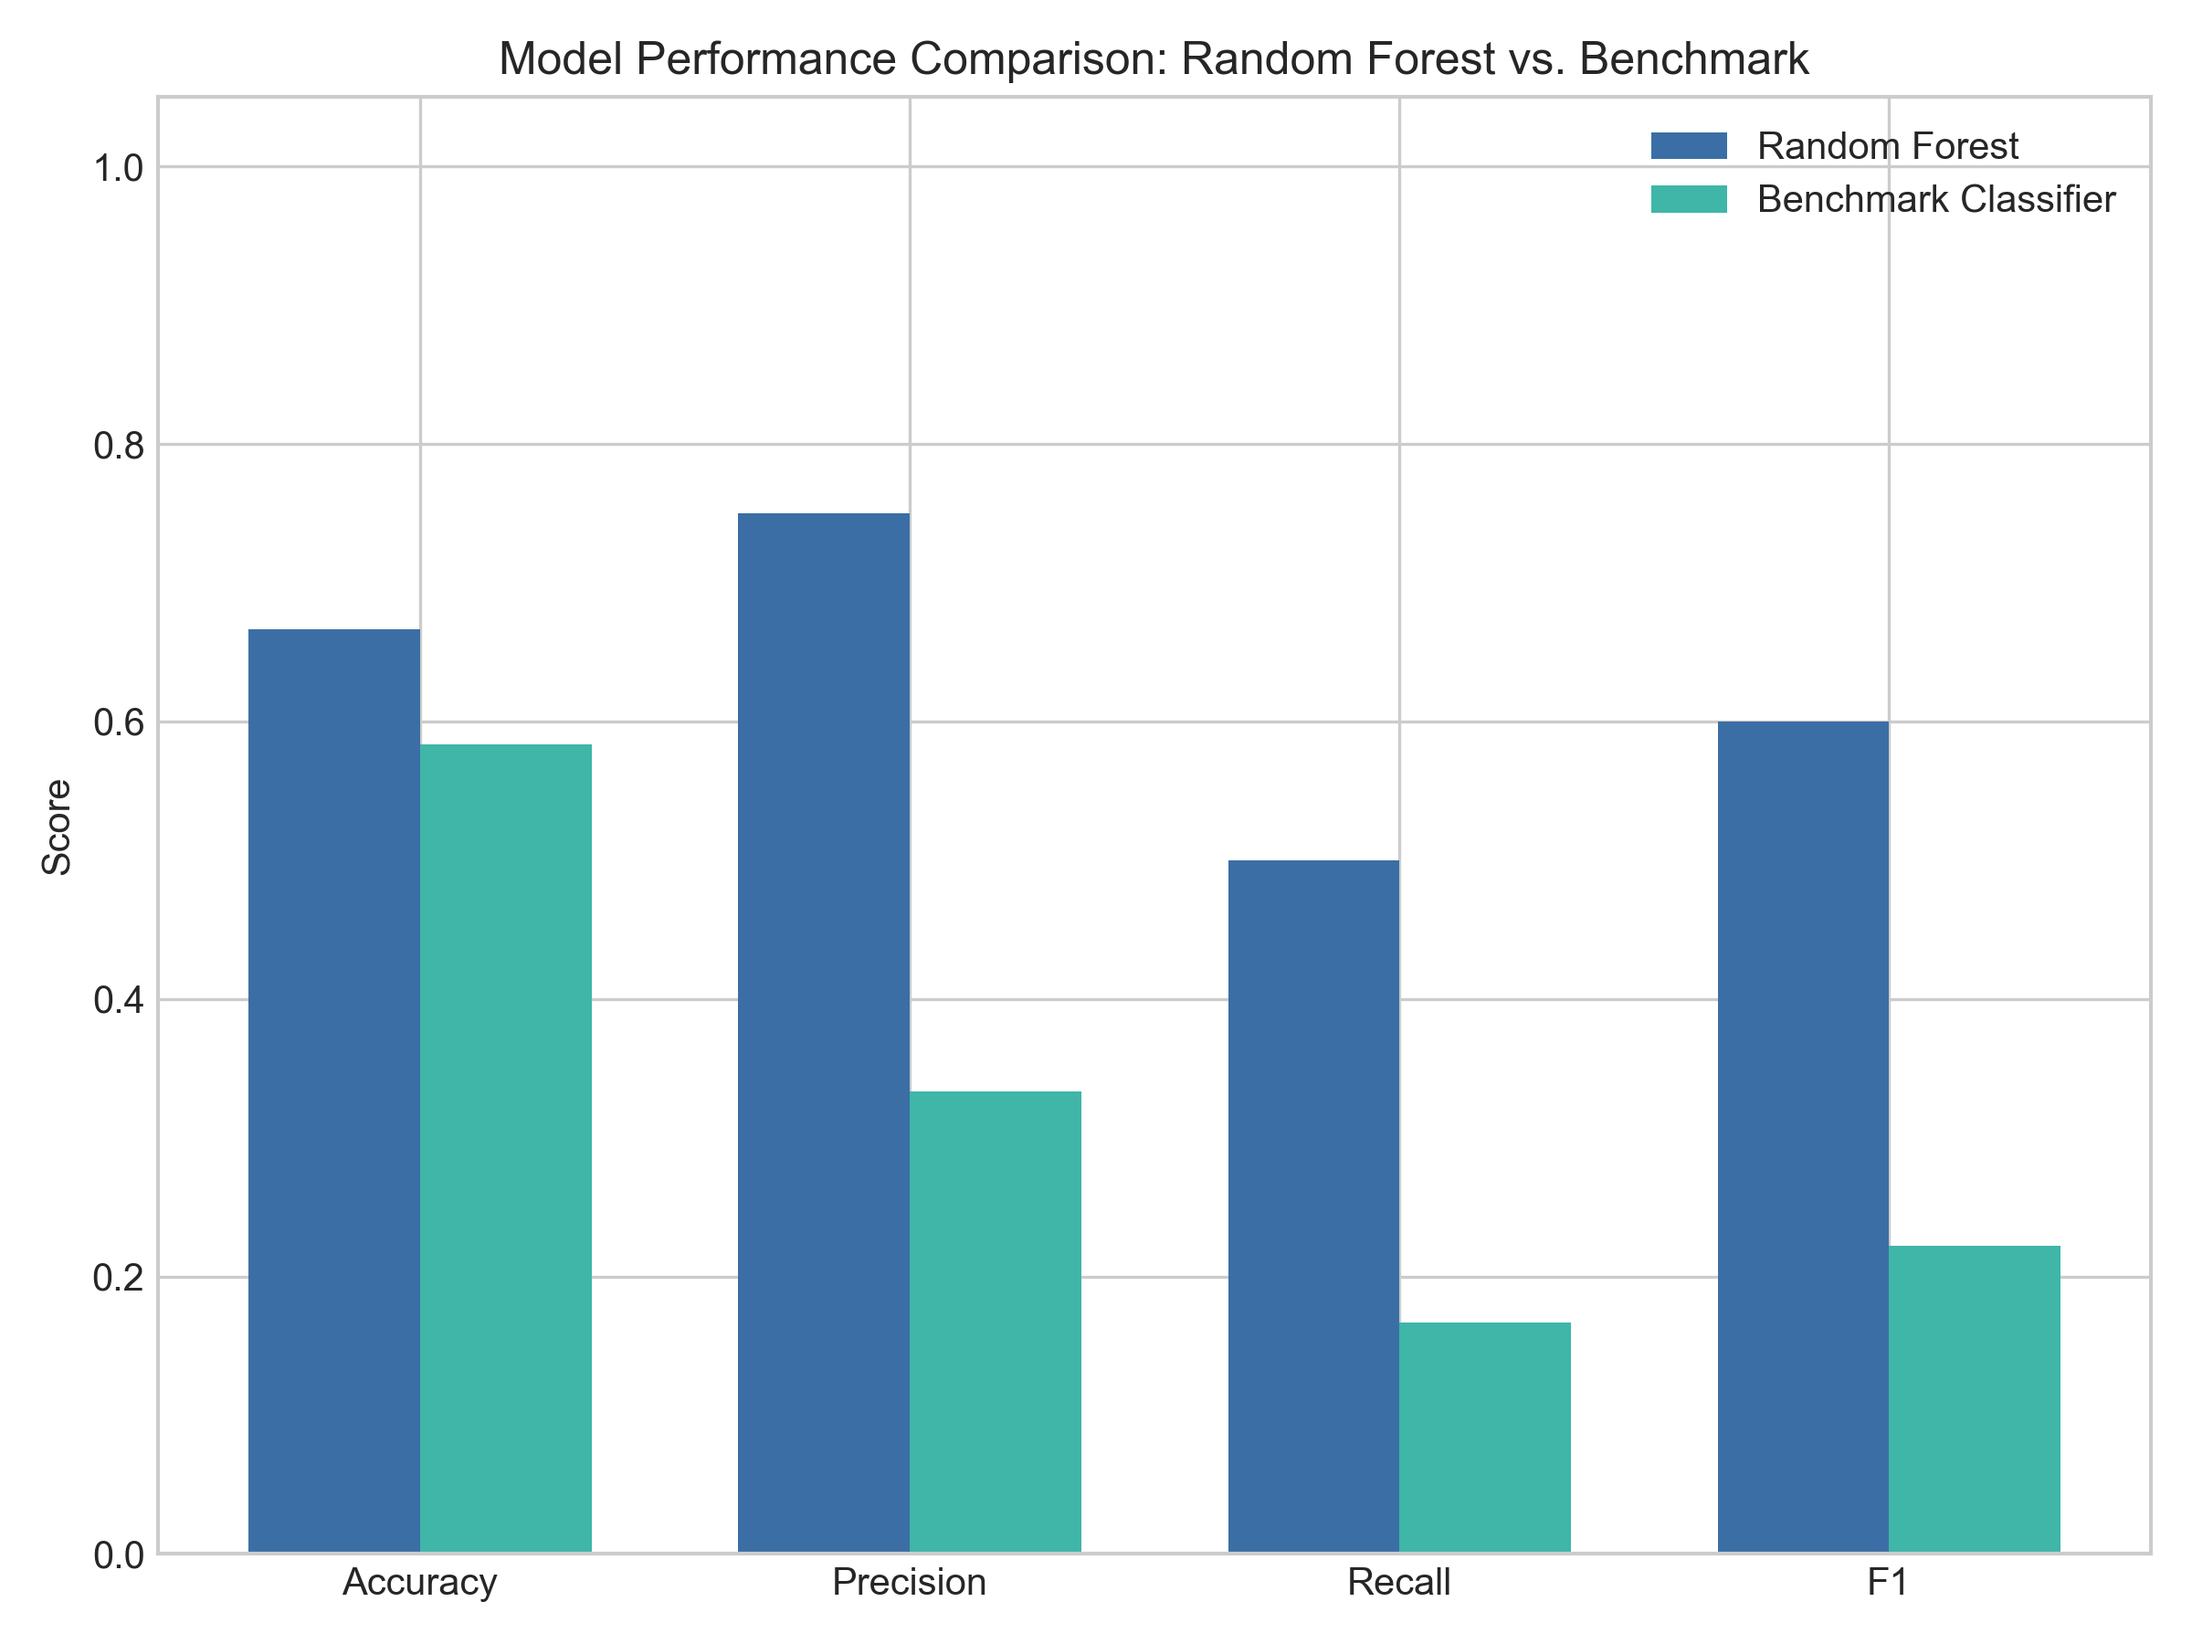
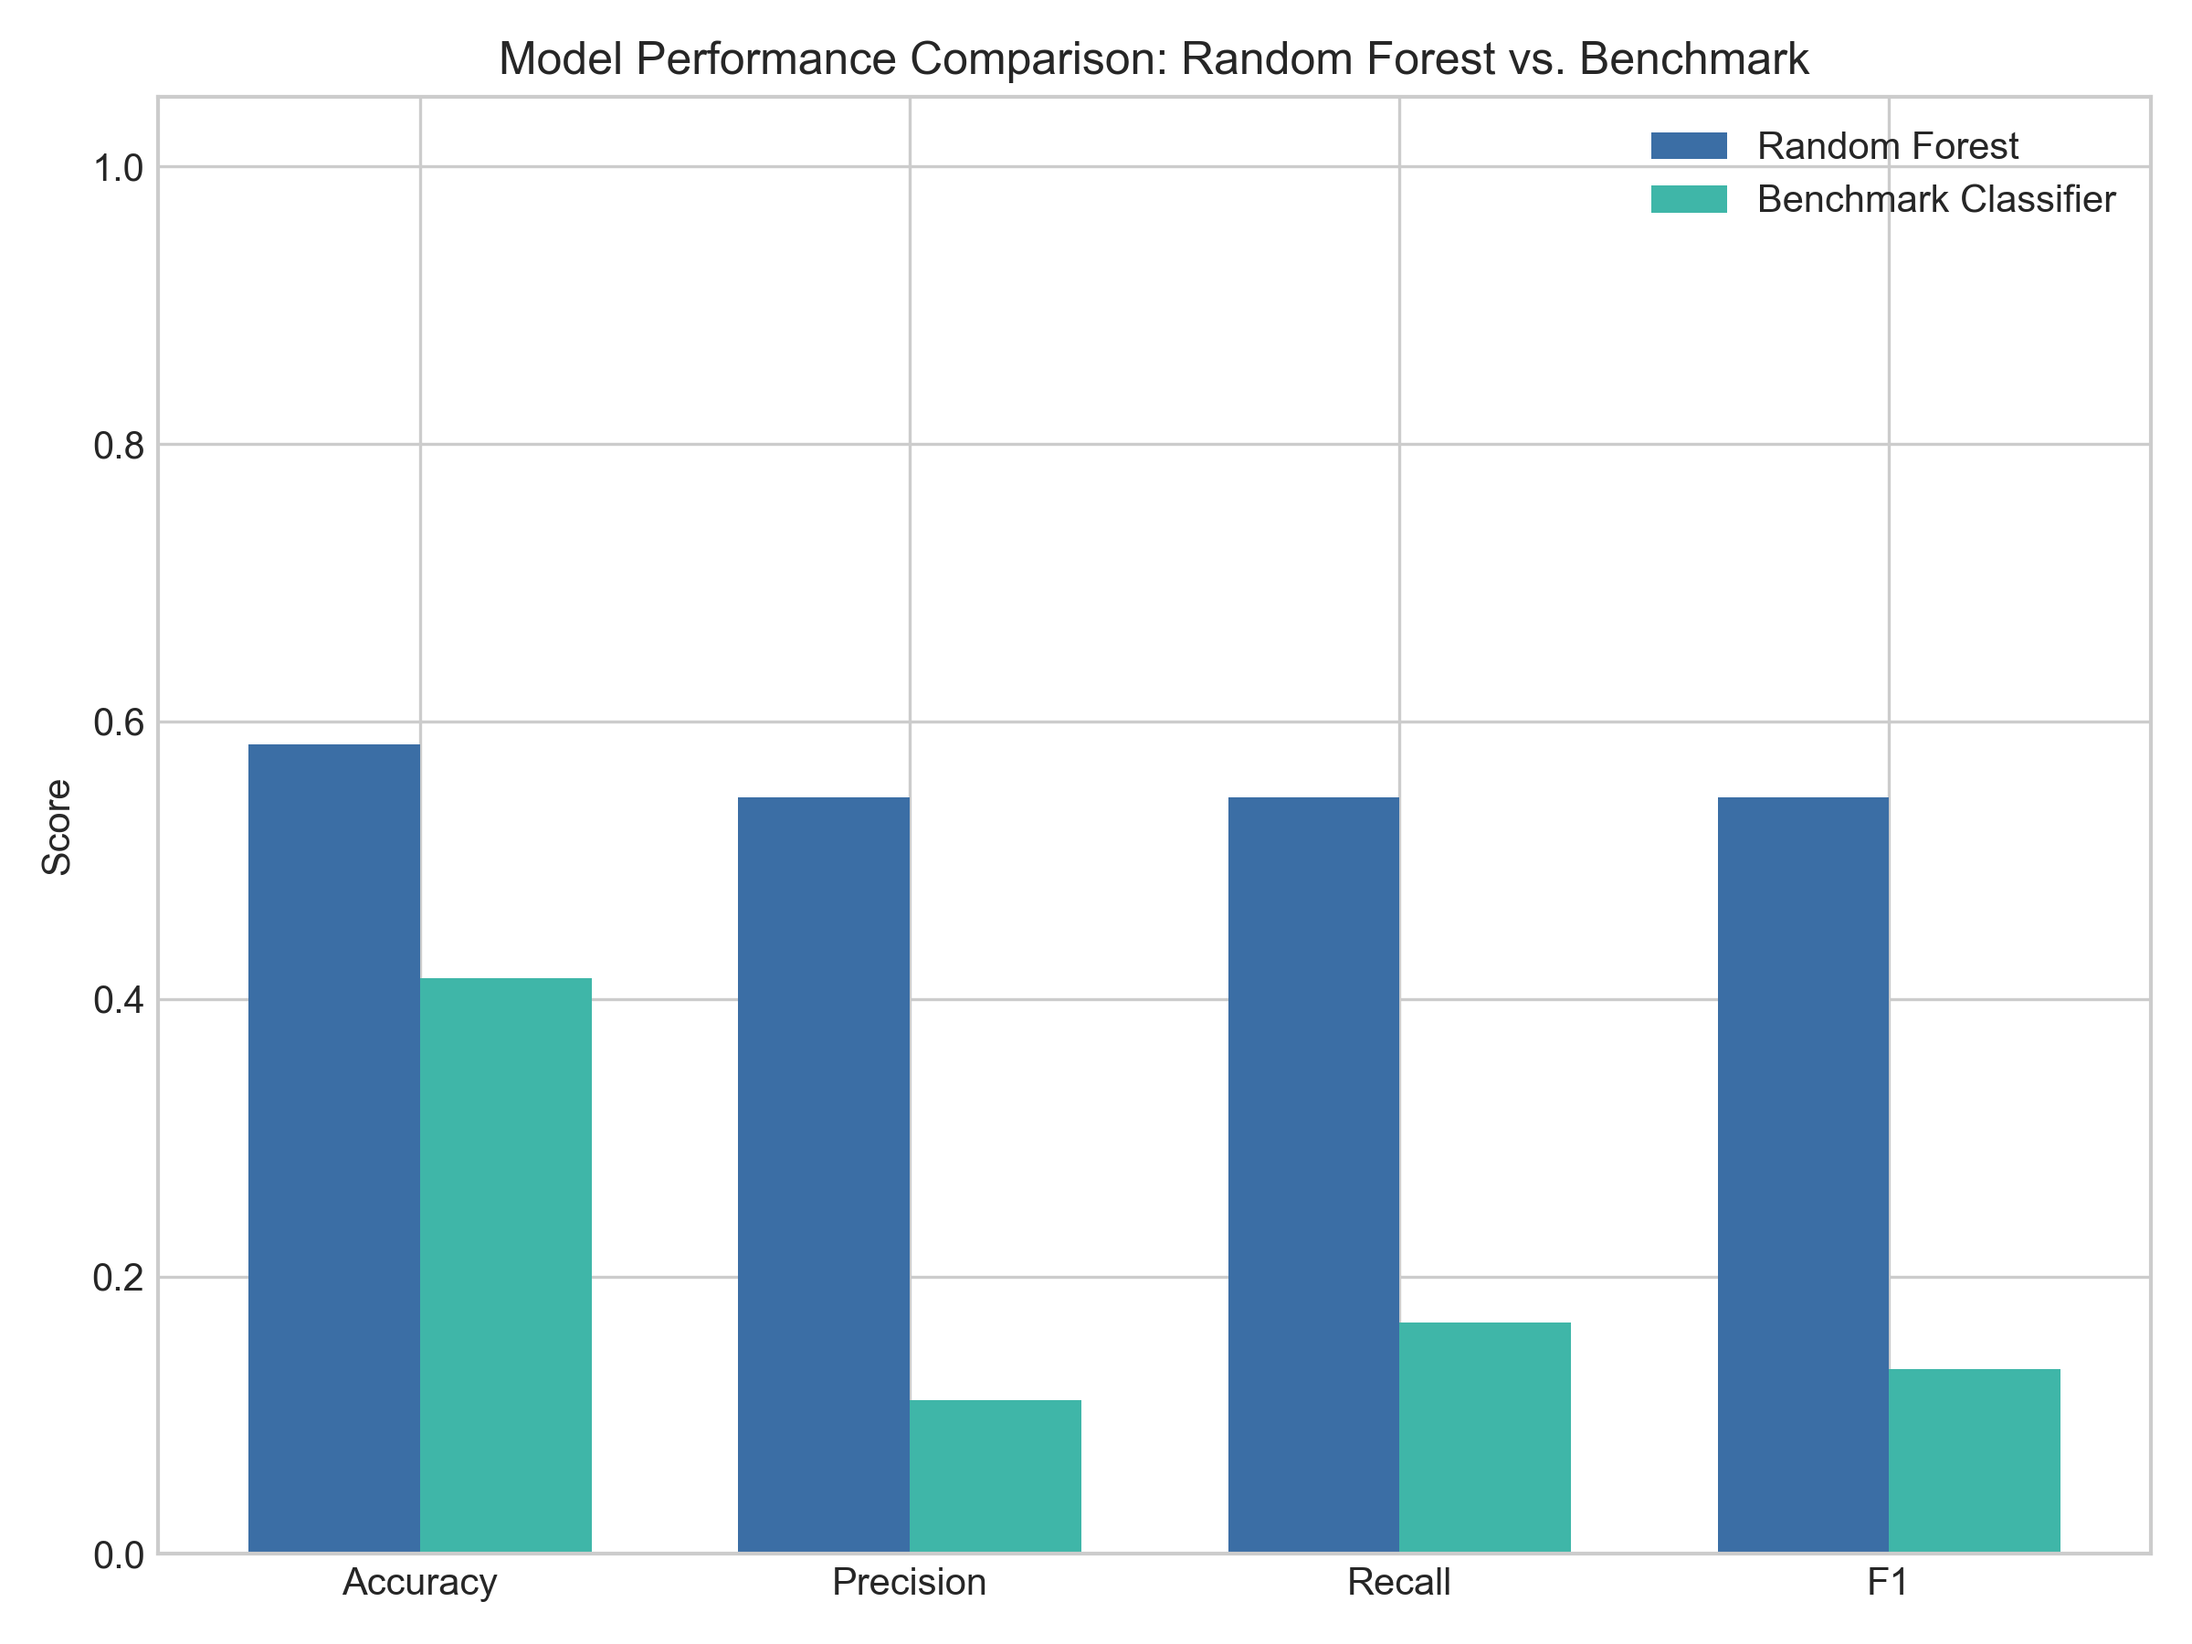
Regenerate the TabPFN benchmark from archive data; label its fallback
tabpfn_comparison.json was last generated on 2 Sep, from the literal data
that the 13 Oct commit replaced, and it was missed when the derived results
were regenerated. It is now regenerated from the archive.

The pipeline falls back to Gradient Boosting if TabPFN fails inside the
cross-validation loop (here: no license token to download its weights).
It kept model_name = "TabPFN" in that case, so the saved results claimed a
model that never ran. It now records GradientBoosting.

docs/figures/model_comparison.png (28 Aug) is removed. No current script
writes it, nothing links to it, and it predates the archive data.

diff --git a/analysis/tabpfn_pipeline.py b/analysis/tabpfn_pipeline.py
@@ -82,6 +82,8 @@ def run_tabpfn_analysis(df, features, target_col, group_col):
     except Exception as e:
         logger.warning(f"Error during CV loop with primary classifier ({e}). Falling back to GradientBoosting.")
         clf = GradientBoostingClassifier(n_estimators=100, random_state=42)
+        # Record the model that actually produced the results, not the one requested.
+        model_name = "GradientBoosting"
         accuracies, precisions, recalls, f1s = [], [], [], []
         fold_results = {}
         for train_idx, test_idx in logo.split(X, y, groups):
